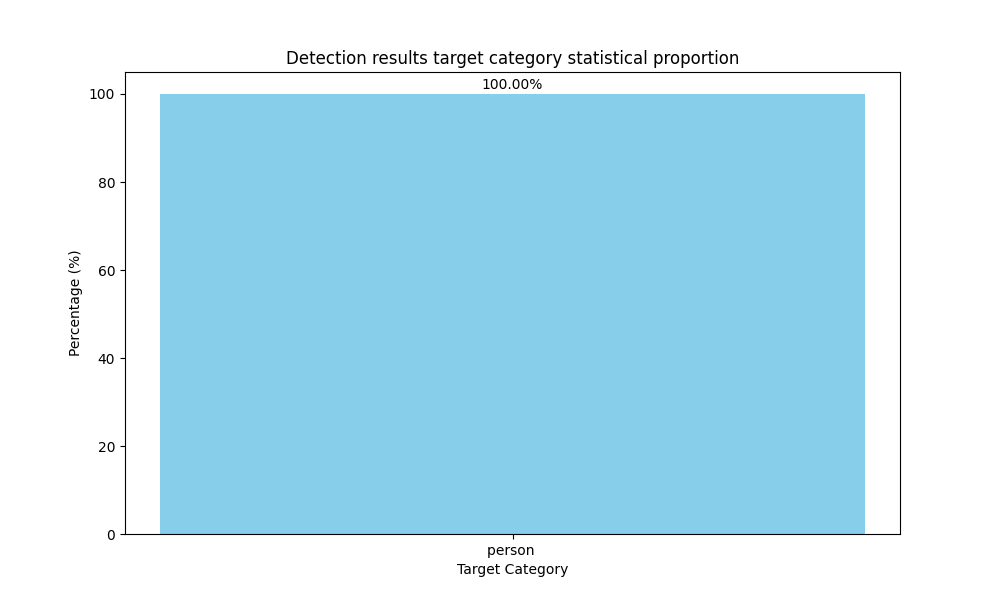
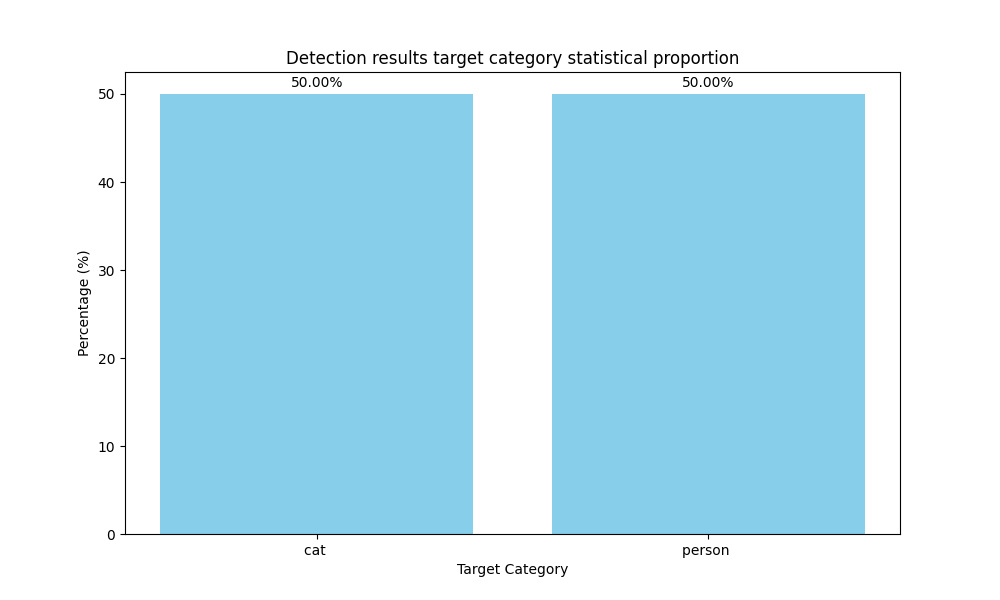
Update OCR handling for PaddleOCR 3.1 and adjust dependencies

diff --git a/yolocode/OCRThread.py b/yolocode/OCRThread.py
@@ -16,7 +16,7 @@ import asyncio
 class PdOCR:
     def __init__(self, lang: str = "korean", **kwargs):
         self.lang = lang
-        self._ocr = PaddleOCR(use_angle_cls=True,lang=self.lang)
+        self._ocr = PaddleOCR(use_angle_cls=True, lang=self.lang)
         self.img_path = None
         self.ocr_result = {}
 
@@ -29,14 +29,24 @@ class PdOCR:
     def run_ocr(self, img_path: str):
         self.img_path = img_path
         ocr_text = []
-        result = self._ocr.ocr(img_path, cls=True)
-        self.ocr_result = result[0]
+        result = self._ocr.ocr(img_path)
 
-        if self.ocr_result:
-            for r in result[0]:
-                ocr_text.append(r[1][0])
-        else:
-            ocr_text = "No text detected."
+        # PaddleOCR 3.1.x 결과 구조 처리
+        if result and len(result) > 0:
+            if isinstance(result[0], dict):
+                # 3.1.x 버전 형식
+                self.ocr_result = result[0]
+                if 'rec_texts' in self.ocr_result:
+                    ocr_text = self.ocr_result['rec_texts']
+            elif isinstance(result[0], list):
+                # 2.10 버전 형식 (하위 호환성)
+                self.ocr_result = result[0]
+                if self.ocr_result:
+                    for r in result[0]:
+                        ocr_text.append(r[1][0])
+
+        if not ocr_text:
+            ocr_text = ["No text detected."]
 
         image, roi_image = self.show_img_with_ocr()
 
@@ -46,29 +56,52 @@ class PdOCR:
         image = cv2.imread(self.img_path)
         roi_image = image.copy()
 
-        for text_result in self.ocr_result:
-            text = text_result[1][0]
-            tlX = int(text_result[0][0][0])
-            tlY = int(text_result[0][0][1])
-            trX = int(text_result[0][1][0])
-            trY = int(text_result[0][1][1])
-            brX = int(text_result[0][2][0])
-            brY = int(text_result[0][2][1])
-            blX = int(text_result[0][3][0])
-            blY = int(text_result[0][3][1])
+        # PaddleOCR 3.1.x 결과 구조 처리
+        if isinstance(self.ocr_result, dict):
+            # 3.1.x 버전 형식
+            boxes = self.ocr_result.get('rec_polys', [])
+            texts = self.ocr_result.get('rec_texts', [])
 
-            pts = ((tlX, tlY), (trX, trY), (brX, brY), (blX, blY))
+            for box, text in zip(boxes, texts):
+                # box는 [[x1,y1], [x2,y2], [x3,y3], [x4,y4]] 형태
+                pts = [(int(point[0]), int(point[1])) for point in box]
 
-            topLeft = pts[0]
-            topRight = pts[1]
-            bottomRight = pts[2]
-            bottomLeft = pts[3]
+                topLeft = pts[0]
+                topRight = pts[1]
+                bottomRight = pts[2]
+                bottomLeft = pts[3]
 
-            cv2.line(roi_image, topLeft, topRight, (0, 255, 0), 2)
-            cv2.line(roi_image, topRight, bottomRight, (0, 255, 0), 2)
-            cv2.line(roi_image, bottomRight, bottomLeft, (0, 255, 0), 2)
-            cv2.line(roi_image, bottomLeft, topLeft, (0, 255, 0), 2)
-            roi_image = self.put_text(roi_image, text, topLeft[0], topLeft[1] - 20, font_size=17)
+                cv2.line(roi_image, topLeft, topRight, (0, 255, 0), 2)
+                cv2.line(roi_image, topRight, bottomRight, (0, 255, 0), 2)
+                cv2.line(roi_image, bottomRight, bottomLeft, (0, 255, 0), 2)
+                cv2.line(roi_image, bottomLeft, topLeft, (0, 255, 0), 2)
+                roi_image = self.put_text(roi_image, text, topLeft[0], topLeft[1] - 20, font_size=17)
+
+        elif isinstance(self.ocr_result, list):
+            # 2.10 버전 형식 (하위 호환성)
+            for text_result in self.ocr_result:
+                text = text_result[1][0]
+                tlX = int(text_result[0][0][0])
+                tlY = int(text_result[0][0][1])
+                trX = int(text_result[0][1][0])
+                trY = int(text_result[0][1][1])
+                brX = int(text_result[0][2][0])
+                brY = int(text_result[0][2][1])
+                blX = int(text_result[0][3][0])
+                blY = int(text_result[0][3][1])
+
+                pts = ((tlX, tlY), (trX, trY), (brX, brY), (blX, blY))
+
+                topLeft = pts[0]
+                topRight = pts[1]
+                bottomRight = pts[2]
+                bottomLeft = pts[3]
+
+                cv2.line(roi_image, topLeft, topRight, (0, 255, 0), 2)
+                cv2.line(roi_image, topRight, bottomRight, (0, 255, 0), 2)
+                cv2.line(roi_image, bottomRight, bottomLeft, (0, 255, 0), 2)
+                cv2.line(roi_image, bottomLeft, topLeft, (0, 255, 0), 2)
+                roi_image = self.put_text(roi_image, text, topLeft[0], topLeft[1] - 20, font_size=17)
 
         return image, roi_image
 
@@ -77,9 +110,8 @@ class PdOCR:
             color_coverted = cv2.cvtColor(image, cv2.COLOR_BGR2RGB)
             image = Image.fromarray(color_coverted)
 
-        font_path=os.path.join(os.getcwd(),'fonts','SourceHanSansSC-VF.ttf')
+        font_path = os.path.join(os.getcwd(), 'fonts', 'SourceHanSansSC-VF.ttf')
         image_font = ImageFont.truetype(font_path, font_size)
-        font = ImageFont.load_default()
         draw = ImageDraw.Draw(image)
 
         draw.text((x, y), text, font=image_font, fill=color)
